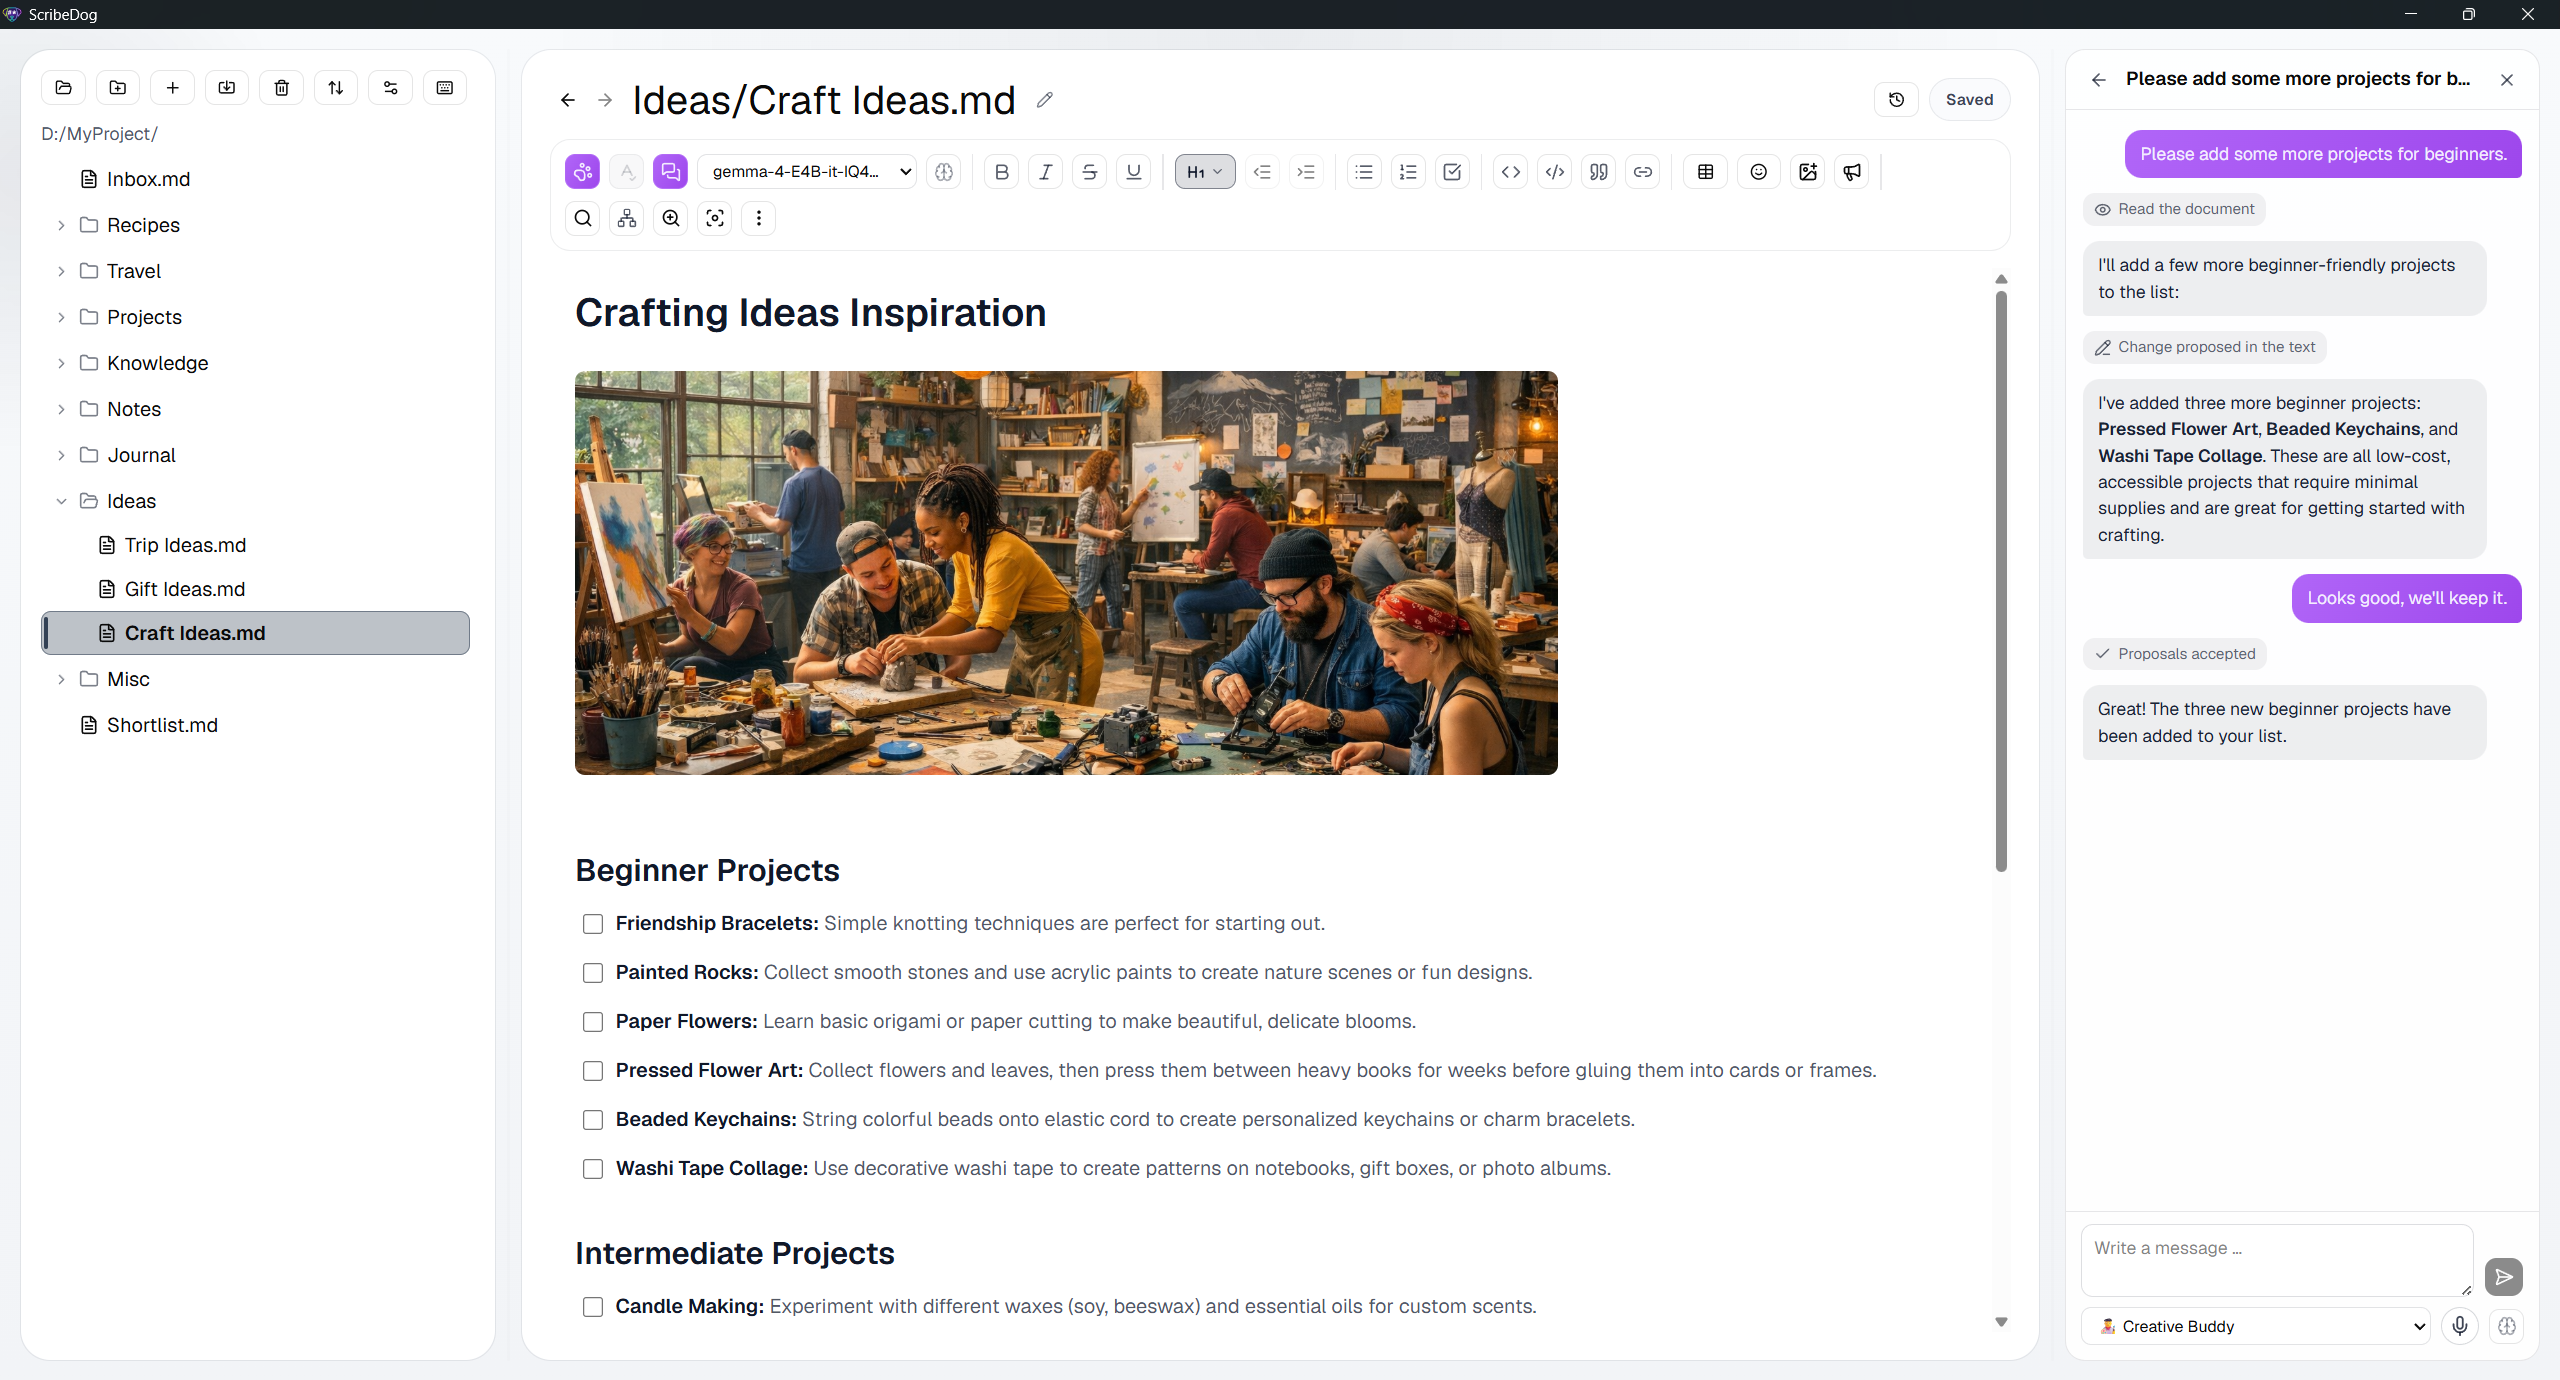
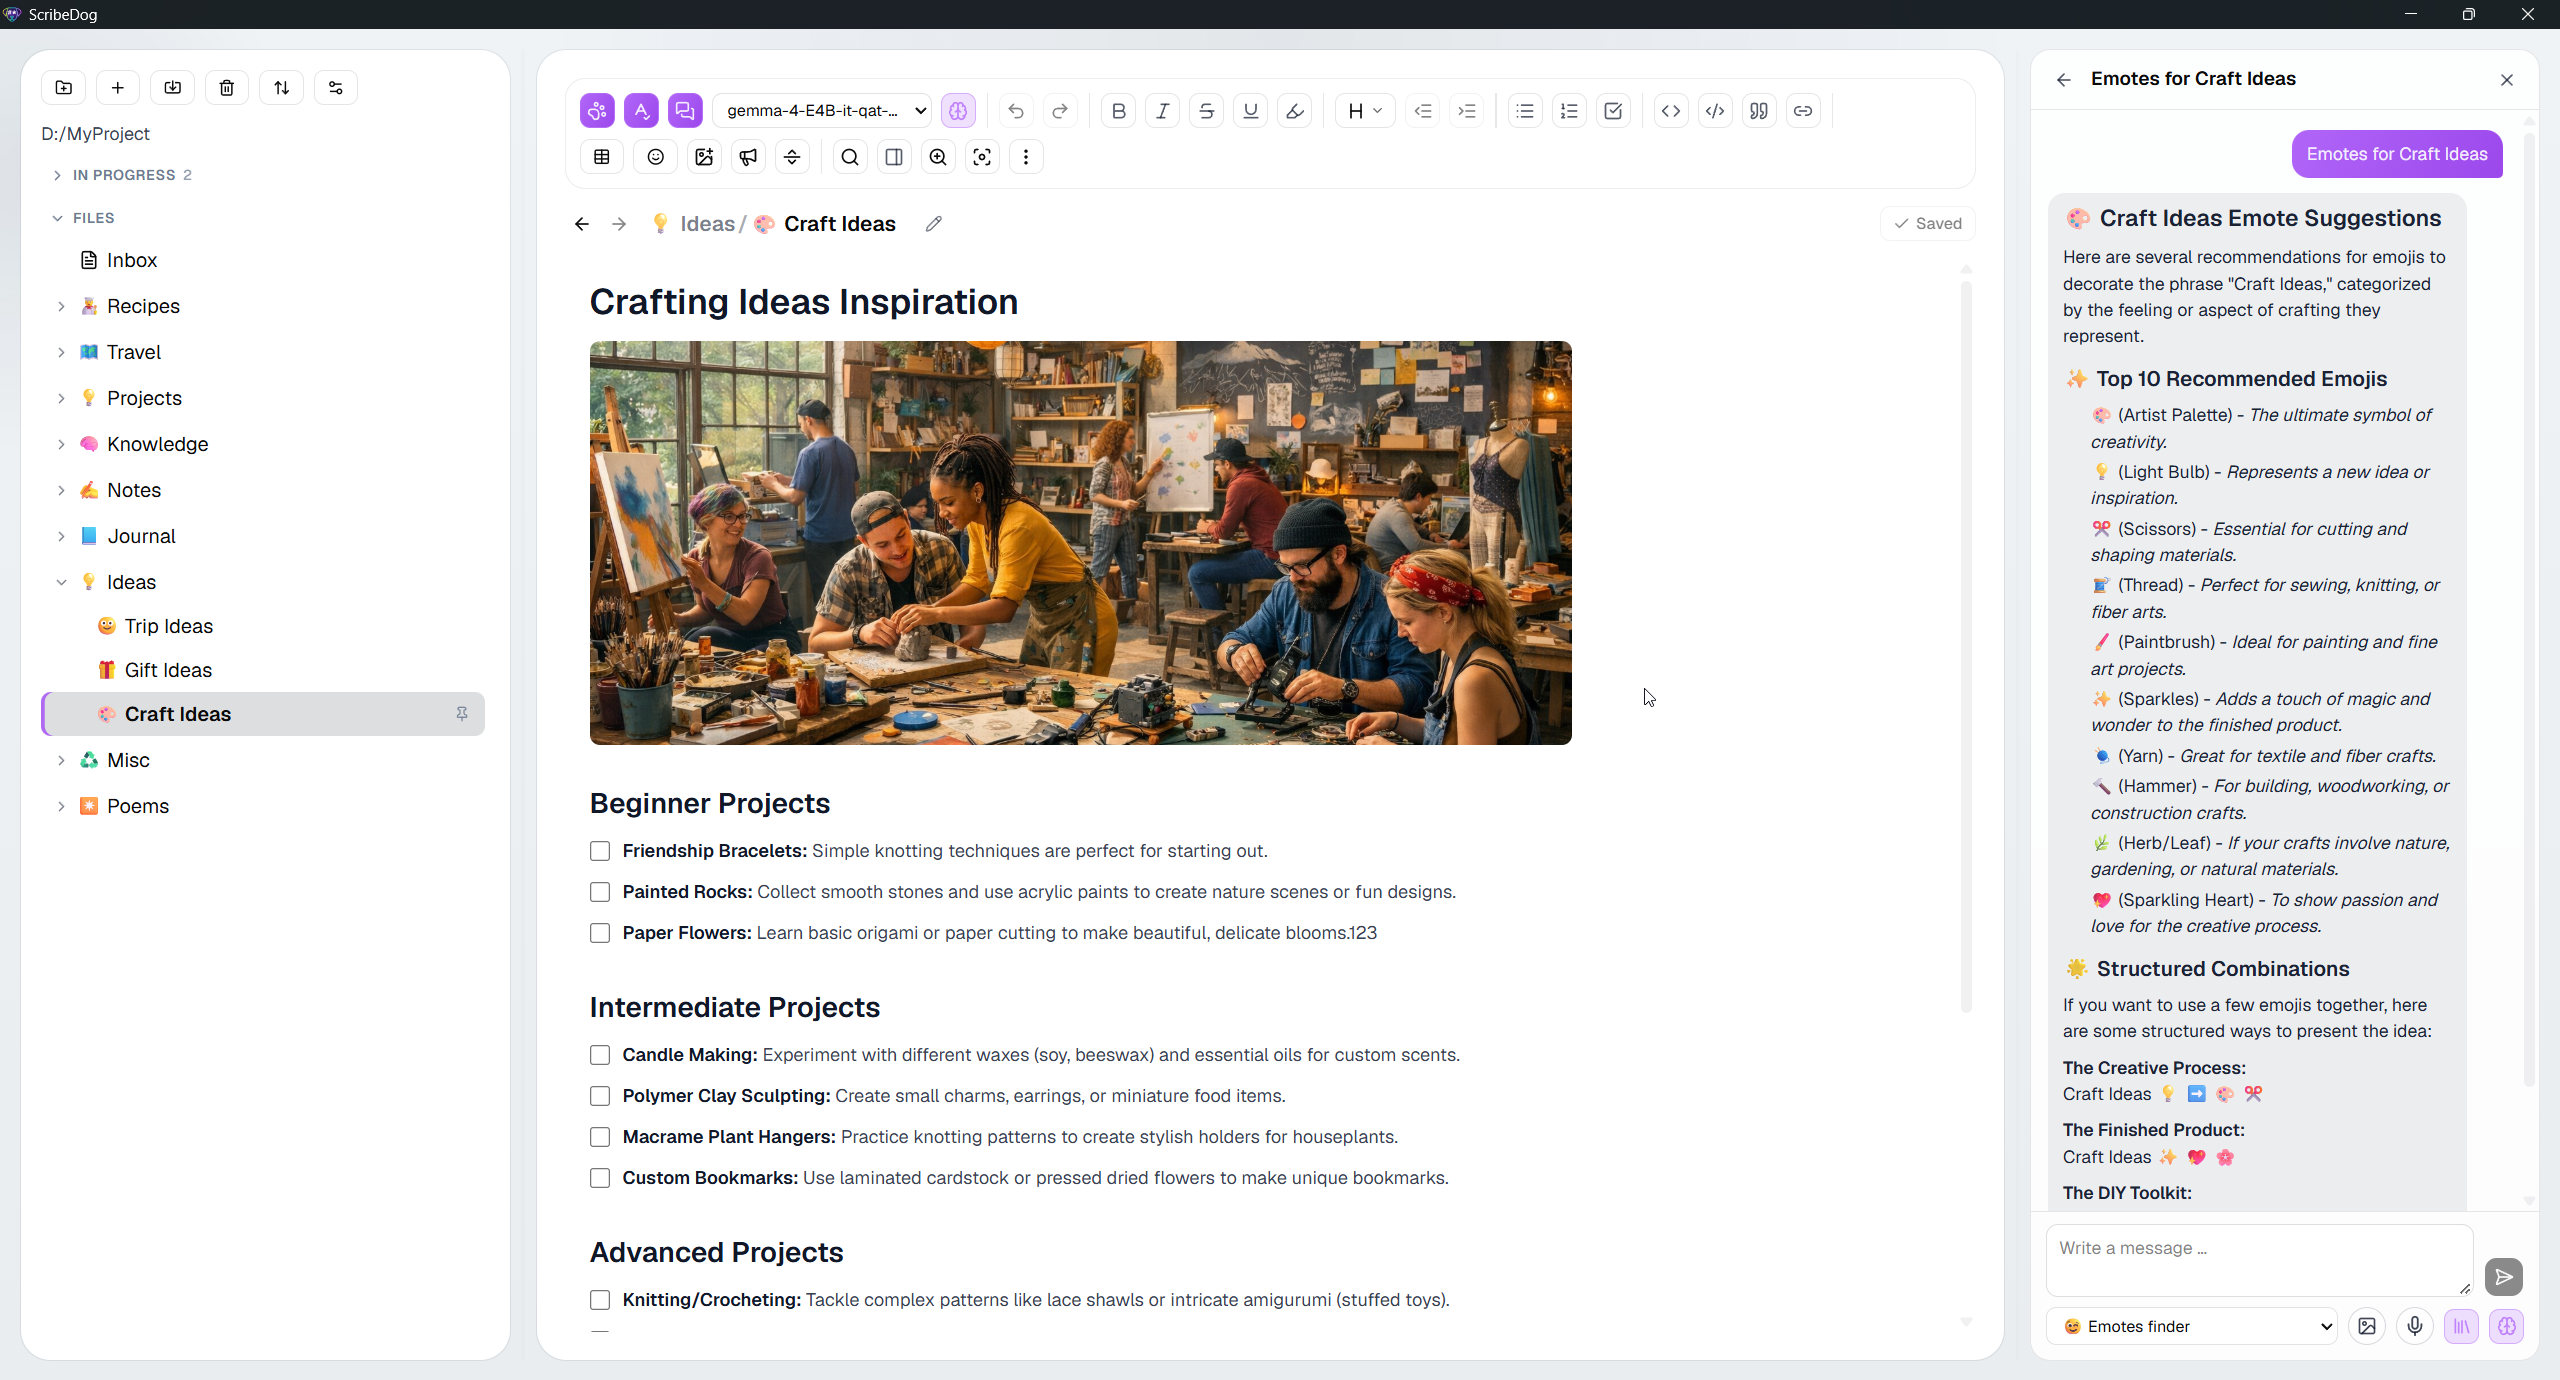
docs: update readme

diff --git a/README.md b/README.md
@@ -106,6 +106,8 @@ builder where you pick a few colours and the rest follows. Export and share
 your themes as JSON. The interface speaks 10 languages, and every keyboard
 shortcut can be remapped.
 
+<img src="docs/images/scribe-dog-custom-theme.png" alt="ScribeDog with a custom theme: warm amber accent and a paper-coloured page" width="700">
+
 <img src="docs/images/scribe-dog-themebuilder.png" alt="ScribeDog theme builder" width="700">
 
 [Read more →](docs/customizing.md)

diff --git a/docs/customizing.md b/docs/customizing.md
@@ -24,6 +24,11 @@ you judge long or layout-heavy documents.
 The **theme builder** lives under **Settings, Appearance**. It starts from
 any built-in theme.
 
+This is what a custom theme can look like: a warm amber accent and a
+paper-coloured page.
+
+<img src="images/scribe-dog-custom-theme.png" alt="ScribeDog with a custom theme: warm amber accent and a paper-coloured page" width="700">
+
 You pick a handful of base colours:
 
 - background
